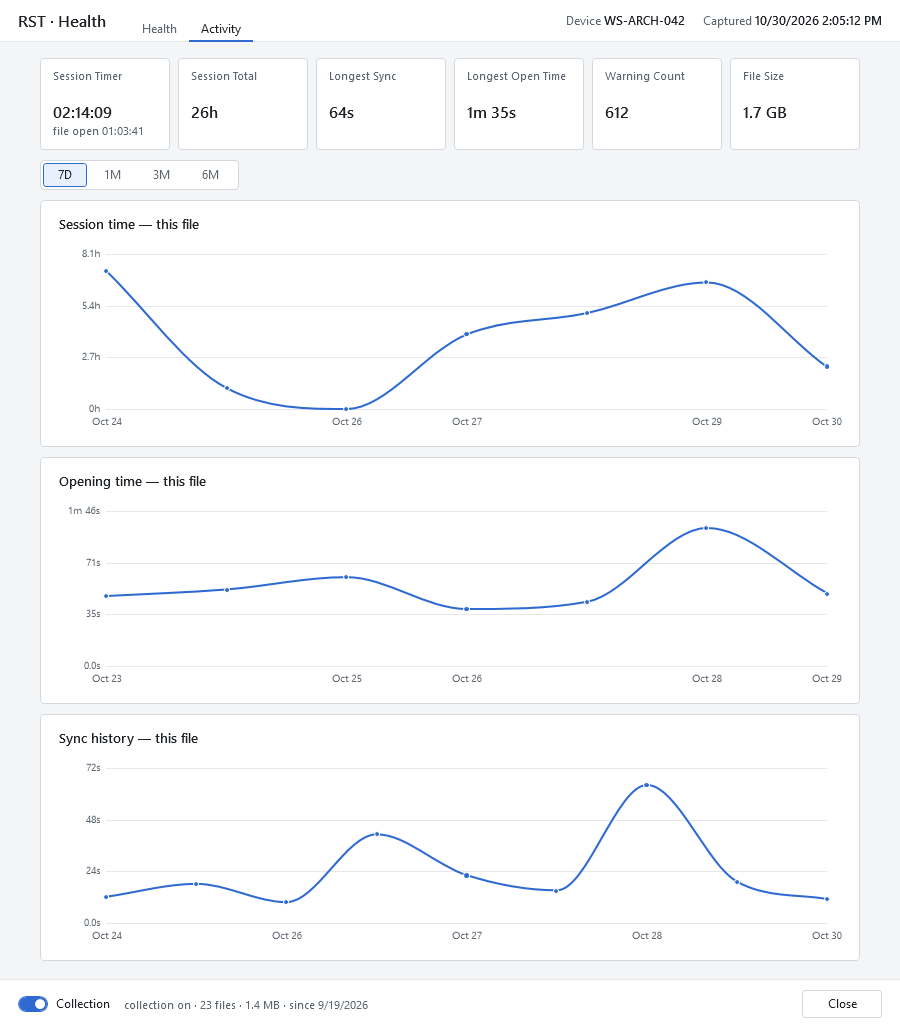
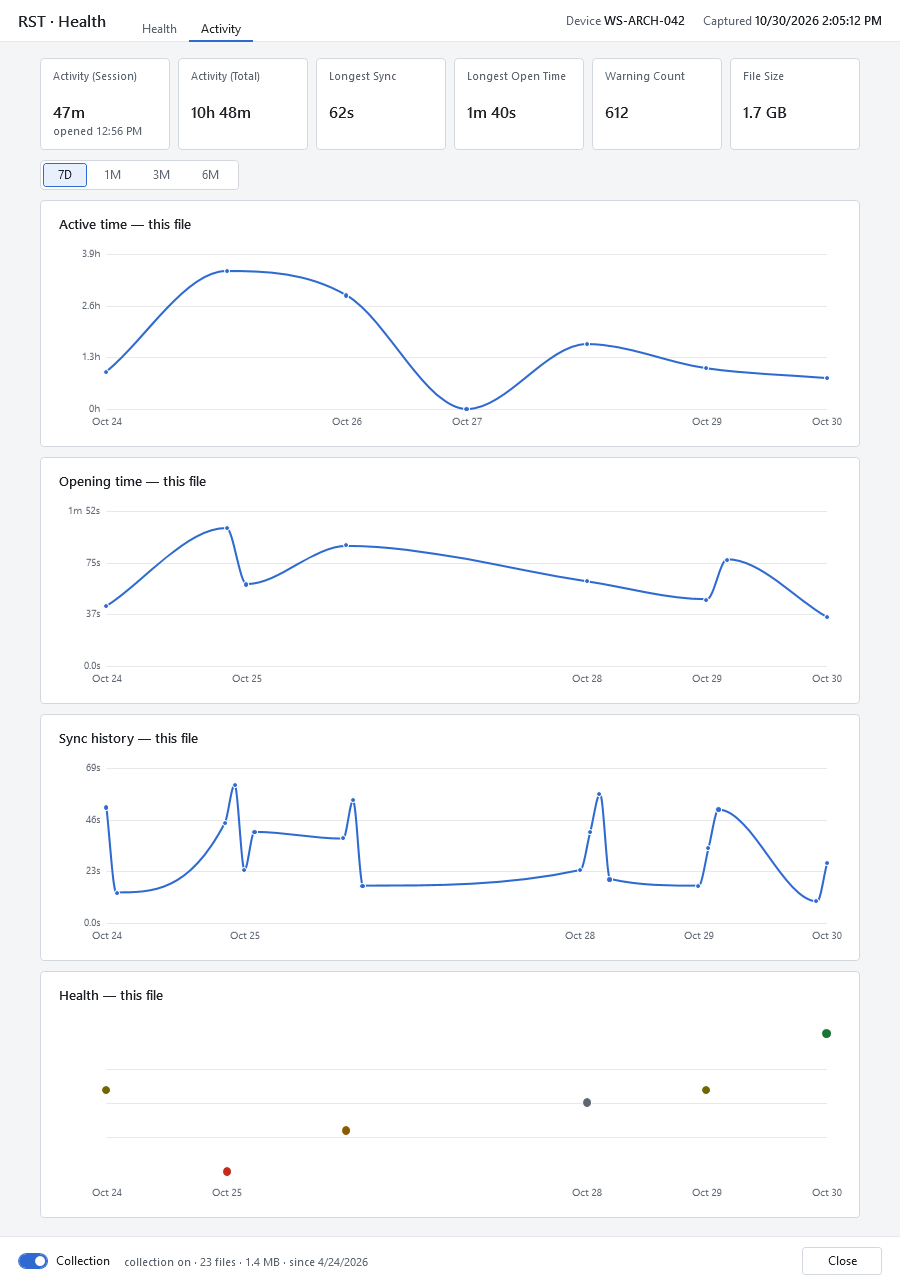
docs(health): Collection applies to this Revit session at once, others on restart; the sync comment is the one typed text recorded; v3.2 Activity screenshot (F19 #24 WU4 review F2, F4, F5)

diff --git a/docs/health-tool.md b/docs/health-tool.md
@@ -192,12 +192,12 @@ rst-c records model activity on this PC so the Activity tab, and the RST tray's 
 
 - Revit starting and closing, and a heartbeat every 2 minutes while it runs: the Revit version, build and minor version, the RST version, the PC's name, your Windows and Autodesk user names, and a random id for this RST install.
 - Opening, closing, saving and Save As of a model, and how long the open took. Each carries the model's identity: its title, its local and central paths, the ids Revit keeps for it (creation, central and cloud ids), whether it is workshared, cloud, a family or detached.
-- Each synchronize with central: its start, its end and the comment you typed.
+- Each synchronize with central: its start, its end, and the text of the optional comment you typed in Revit's Synchronize with Central dialog.
 - That the model changed, at most once a minute per model, and that you switched to another open model, at most once a minute. Only the time and which model; never what changed.
 - The model's warning count and file size on disk, after it opens, saves or syncs, at most once every 5 minutes.
 - Collection being turned off and on.
 
-**What is never recorded:** the model's content (elements, views, sheets, parameters, geometry, names inside the model), what you typed or clicked, the commands you ran, or anything from other programs. Linked models are not tracked.
+**What is never recorded:** the model's content (elements, views, sheets, parameters, geometry, names inside the model), your keystrokes and clicks (the only text you type that is recorded is the sync comment above), the commands you ran, or anything from other programs. Linked models are not tracked.
 
 **Where it lives**, in your Windows profile on this PC (it does not roam to other PCs):
 
@@ -209,7 +209,7 @@ rst-c records model activity on this PC so the Activity tab, and the RST tray's 
 
 **How long it is kept.** After Revit closes, the RST tray folds each session's raw file into the model's rollup, usually within 15 minutes. Once a file's data is safely in the rollup (and in its backup copy), the raw file is deleted, except the 3 newest. The rollups keep one row of totals per model per day used, with no end date, and each individual open and sync time for 90 days (always at least the last 10). If the tray never runs, raw files are still deleted once they are 180 days old. The Health window reads files the tray has not folded yet, so its numbers are up to date either way. The file formats are documented in [Activity rollups](activity-rollups.md).
 
-**Turning it off.** The **Collection** switch in the Activity tab's footer turns recording on or off for your Windows account; it is on by default. Off, nothing new is recorded; what was already recorded stays and is still shown. To remove everything recorded, close Revit and the RST tray and delete `%LOCALAPPDATA%\RST\telemetry\`.
+**Turning it off.** The **Collection** switch in the Activity tab's footer turns recording on or off; it is on by default. The setting is saved for your Windows account. It applies to the Revit session you change it in immediately; other Revit windows already open keep their previous setting until you close and reopen them. Off, nothing new is recorded; what was already recorded stays and is still shown. To remove everything recorded, close Revit and the RST tray and delete `%LOCALAPPDATA%\RST\telemetry\`.
 
 Beside the switch, a status line reports the raw event files: on or off, how many there are and their size on disk, and since when the current model has history (for example "collection on · 8 files · 424 KB · since 10/22/2026").
 
